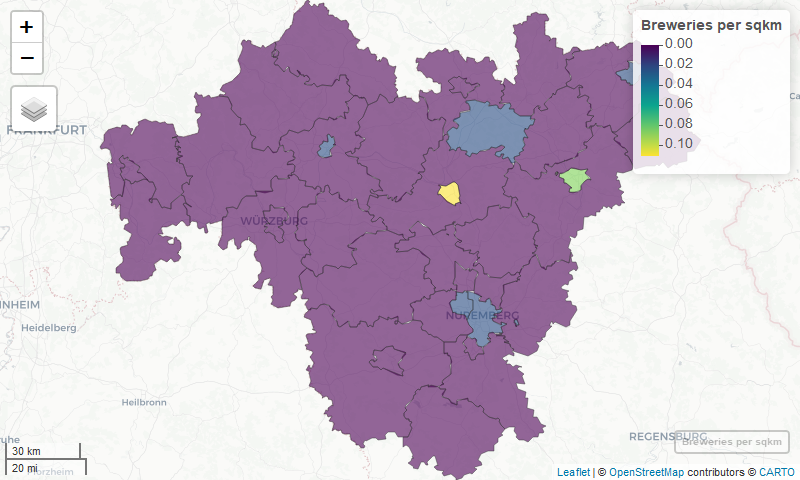
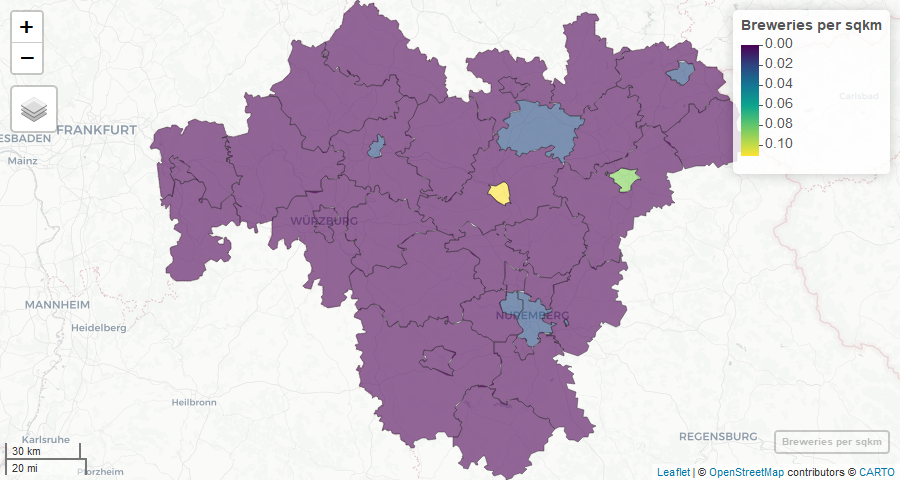
minor corrections on README and image size

diff --git a/README.md b/README.md
@@ -102,7 +102,7 @@ q |>
     geom_col()
 ```
 
-<img src="man/figures/README-pipe-1.svg" width="800" />
+<img src="man/figures/README-pipe-1.svg" width="900" />
 
 This is how to query the total number of breweries in all of Franconia.
 But what if we want to aggregate the amount per district? The
@@ -161,7 +161,7 @@ q |>
     mapview(zcol = "value", layer.name = "Breweries per sqkm")
 ```
 
-<img src="man/figures/README-density-1.png" width="800" />
+<img src="man/figures/README-density-1.png" width="900" />
 
 ### Other queries
 
@@ -191,14 +191,14 @@ q <- ohsome_query(
 One of the downsides of this approach is that you cannot just pass `sf`
 objects as bounding polygons into the query. You would need to textually
 define the bounding geometries (`bpolys`, `bboxes` or `bcircles`) as
-parameters to the query just as described in the \[ohsome API
-documentation\](<https://docs.ohsome.org/ohsome-api/stable/boundaries.html%7Btarget=blank%7D>.
+parameters to the query just as described in the
+<a href="https://docs.ohsome.org/ohsome-api/stable/boundaries.html" target="blank">ohsome API documentation</a>.
 
 As a workaround, you can just add bounding geometries with
 `set_boundary()` to any existing `ohsome_query` object:
 
 ``` r
-schweinfurt <- subset(franconia, NAME_ASCI == "Schweinfurt, Kreisfreie Stadt")
+schweinfurt <- franconia |> filter(NAME_ASCI == "Schweinfurt, Kreisfreie Stadt")
 
 q <- set_boundary(q, schweinfurt)
 ```
@@ -219,10 +219,10 @@ m <- q |>
     top_n(-1, wt = year) |>
     mapview(zcol = "year", lwd = 0, layer.name = "Year of Feature Creation")
 
-m@map %>% leaflet::setView(10.23, 50.04, zoom = 14)
+m@map %>% leaflet::setView(10.23, 50.04, zoom = 13)
 ```
 
-<img src="man/figures/README-buildings-1.png" width="800" />
+<img src="man/figures/README-buildings-1.png" width="900" />
 
 You may find using `clean_names()` from the `janitor` package helpful in
 order to remove special characters from column names in the parsed
